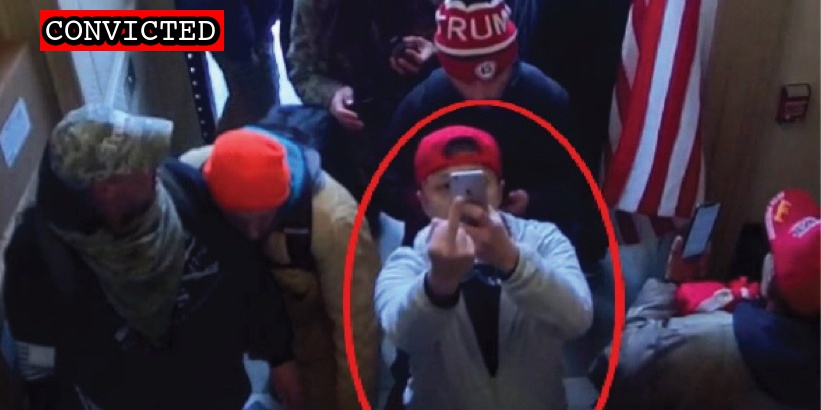
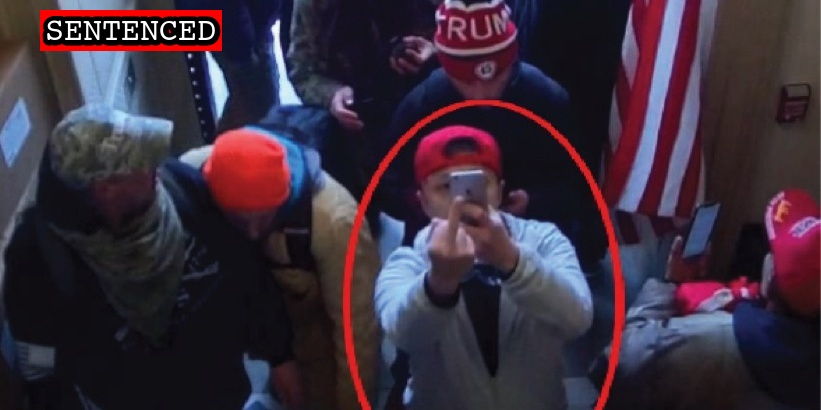
Latest

Changed region(s): [[0.0305, 0.0293, 0.2132, 0.1171], [0.2436, 0.0293, 0.2741, 0.1171]]

diff --git a/docs/_suspects/peter-schwartz.md b/docs/_suspects/peter-schwartz.md
@@ -4,13 +4,13 @@ lastName: Schwartz
 hashtag: PlaidBearSpray
 aka:
 residence: Kentucky
-status: Convicted
+status: Sentenced
 date: 2021-02-04
 charged: 2021-02-04
 indicted: 2021-03-03
 convicted: 2022-12-06
 acquitted:
-sentenced:
+sentenced: 2023-05-05
 dismissed:
 deceased:
 plea_hearing:
@@ -41,52 +41,56 @@ caseName: USA v. SCHWARTZ
 judge: Amit P. Mehta
 videos:
 charges:
-- code: 18 USC § 111(a)(1) and (b)
-  title: Assaulting, resisting, or impeding certain officers or employees (using a deadly or dangerous weapon)
-  url: https://www.law.cornell.edu/uscode/text/18/111
-  felony: true
-- code: 18 USC § 231(a)(3)
-  title: Obstruction of Law Enforcement During Civil Disorder
-  url: https://www.law.cornell.edu/uscode/text/18/231
-  felony: true
-- code: 18 USC § 111(a)(1) and (b)
-  title: Assaulting, resisting, or impeding certain officers or employees (using a deadly or dangerous weapon)
-  url: https://www.law.cornell.edu/uscode/text/18/111
-  felony: true
-- code: 18 USC § 111(a)(1) and (b)
-  title: Assaulting, resisting, or impeding certain officers or employees (using a deadly or dangerous weapon)
-  url: https://www.law.cornell.edu/uscode/text/18/111
-  felony: true
-- code: 18 USC § 111(a)(1) and (b),2
-  title: Assaulting, resisting, or impeding certain officers or employees (using a deadly or dangerous weapon) (Aiding and Abetting)
-  url: https://www.law.cornell.edu/uscode/text/18/111
-  felony: true
-- code: 18 USC § 1512(c)(2),2
-  title: Obstruction of an Official Proceeding (Aiding and Abetting)
-  url: https://www.law.cornell.edu/uscode/text/18/1512
-  felony: true
-- code: 18 USC § 1752(a)(1) and b(1)(A)
-  title: Entering a restricted building or grounds (w/a deadly weapon)
-  url: https://www.law.cornell.edu/uscode/text/18/1752
-  felony: true
-- code: 18 USC § 1752(a)(2) and b(1)(A)
-  title: Disorderly and Disruptive Conduct in a Restricted Building or Grounds (w/a deadly weapon)
-  url: https://www.law.cornell.edu/uscode/text/18/1752
-  felony: true
-- code: 18 USC § 1752(a)(4), (b)(1)(A)
-  title: Entering a restricted building or grounds with a dangerous or deadly weapon
-  url: https://www.law.cornell.edu/uscode/text/18/1752
-  felony: true
-- code: 40 USC § 5104(e)(2)(D)
-  title: Disorderly Conduct in a Capitol Building
-  url: https://www.law.cornell.edu/uscode/text/40/5104
-  felony: false
-- code: 40 USC § 5104(e)(2)(F)
-  title: Act of physical violence on Capitol grounds
-  url: https://www.law.cornell.edu/uscode/text/40/5104
-  felony: false
+  - code: 18 USC § 111(a)(1) and (b)
+    title: Assaulting, resisting, or impeding certain officers or employees (using a deadly or dangerous weapon)
+    url: https://www.law.cornell.edu/uscode/text/18/111
+    felony: true
+  - code: 18 USC § 231(a)(3)
+    title: Obstruction of Law Enforcement During Civil Disorder
+    url: https://www.law.cornell.edu/uscode/text/18/231
+    felony: true
+  - code: 18 USC § 111(a)(1) and (b)
+    title: Assaulting, resisting, or impeding certain officers or employees (using a deadly or dangerous weapon)
+    url: https://www.law.cornell.edu/uscode/text/18/111
+    felony: true
+  - code: 18 USC § 111(a)(1) and (b)
+    title: Assaulting, resisting, or impeding certain officers or employees (using a deadly or dangerous weapon)
+    url: https://www.law.cornell.edu/uscode/text/18/111
+    felony: true
+  - code: 18 USC § 111(a)(1) and (b),2
+    title: Assaulting, resisting, or impeding certain officers or employees (using a deadly or dangerous weapon) (Aiding and Abetting)
+    url: https://www.law.cornell.edu/uscode/text/18/111
+    felony: true
+  - code: 18 USC § 1512(c)(2),2
+    title: Obstruction of an Official Proceeding (Aiding and Abetting)
+    url: https://www.law.cornell.edu/uscode/text/18/1512
+    felony: true
+  - code: 18 USC § 1752(a)(1) and b(1)(A)
+    title: Entering a restricted building or grounds (w/a deadly weapon)
+    url: https://www.law.cornell.edu/uscode/text/18/1752
+    felony: true
+  - code: 18 USC § 1752(a)(2) and b(1)(A)
+    title: Disorderly and Disruptive Conduct in a Restricted Building or Grounds (w/a deadly weapon)
+    url: https://www.law.cornell.edu/uscode/text/18/1752
+    felony: true
+  - code: 18 USC § 1752(a)(4), (b)(1)(A)
+    title: Entering a restricted building or grounds with a dangerous or deadly weapon
+    url: https://www.law.cornell.edu/uscode/text/18/1752
+    felony: true
+  - code: 40 USC § 5104(e)(2)(D)
+    title: Disorderly Conduct in a Capitol Building
+    url: https://www.law.cornell.edu/uscode/text/40/5104
+    felony: false
+  - code: 40 USC § 5104(e)(2)(F)
+    title: Act of physical violence on Capitol grounds
+    url: https://www.law.cornell.edu/uscode/text/40/5104
+    felony: false
 sentence:
+  - 170 months incarceration
+  - 3 years probation
+  - $0 restitution
 ---
+
 - [News Report](https://www.post-gazette.com/news/crime-courts/2021/02/04/peter-schwartz-us-capitol-riots-arrest-uniontown-kentucky/stories/202102040169)
 - [Statement of Facts](https://www.justice.gov/usao-dc/case-multi-defendant/file/1364696/download)
 - [Indictment](https://www.justice.gov/usao-dc/case-multi-defendant/file/1473371/download)

diff --git a/docs/_suspects/daniel-phipps.md b/docs/_suspects/daniel-phipps.md
@@ -41,33 +41,32 @@ caseName: USA v. PHIPPS
 judge: Carl J. Nichols
 videos:
 charges:
-  - code: 18 USC § 111(a)(1)
-    title: Assaulting, resisting, or impeding certain officers or employees
-    url: https://www.law.cornell.edu/uscode/text/18/111
-    felony: true
-  - code: 18 USC § 231(a)(3)
-    title: Obstruction of Law Enforcement During Civil Disorder
-    url: https://www.law.cornell.edu/uscode/text/18/231
-    felony: true
-  - code: 18 USC § 1752(a)(1)
-    title: Entering a restricted building or grounds
-    url: https://www.law.cornell.edu/uscode/text/18/1752
-    felony: false
-  - code: 18 USC § 1752(a)(2)
-    title: Disorderly and disruptive conduct in a restricted building or grounds
-    url: https://www.law.cornell.edu/uscode/text/18/1752
-    felony: false
-  - code: 40 USC § 5104(e)(2)(D)
-    title: Disorderly Conduct in a Capitol Building
-    url: https://www.law.cornell.edu/uscode/text/40/5104
-    felony: false
-  - code: 40 USC § 5104(e)(2)(G)
-    title: Parading, demonstrating or picketing in a Capitol building
-    url: https://www.law.cornell.edu/uscode/text/40/5104
-    felony: false
+- code: 18 USC § 111(a)(1)
+  title: Assaulting, resisting, or impeding certain officers or employees
+  url: https://www.law.cornell.edu/uscode/text/18/111
+  felony: true
+- code: 18 USC § 231(a)(3)
+  title: Obstruction of Law Enforcement During Civil Disorder
+  url: https://www.law.cornell.edu/uscode/text/18/231
+  felony: true
+- code: 18 USC § 1752(a)(1)
+  title: Entering a restricted building or grounds
+  url: https://www.law.cornell.edu/uscode/text/18/1752
+  felony: false
+- code: 18 USC § 1752(a)(2)
+  title: Disorderly and disruptive conduct in a restricted building or grounds
+  url: https://www.law.cornell.edu/uscode/text/18/1752
+  felony: false
+- code: 40 USC § 5104(e)(2)(D)
+  title: Disorderly Conduct in a Capitol Building
+  url: https://www.law.cornell.edu/uscode/text/40/5104
+  felony: false
+- code: 40 USC § 5104(e)(2)(G)
+  title: Parading, demonstrating or picketing in a Capitol building
+  url: https://www.law.cornell.edu/uscode/text/40/5104
+  felony: false
 sentence:
 ---
-
 - [News Report](https://www.dallasnews.com/news/crime/2021/01/27/garland-man-who-posted-photo-of-himself-inside-capitol-building-is-arrested/)
 - [Complaint](https://www.justice.gov/opa/page/file/1360726/download)
 - [Statement of Facts](https://www.justice.gov/opa/page/file/1360726/download)

diff --git a/docs/_suspects/mick-chan.md b/docs/_suspects/mick-chan.md
@@ -4,13 +4,13 @@ lastName: Chan
 hashtag: MickChan
 aka:
 residence: New Jersey
-status: Convicted
+status: Sentenced
 date: 2021-09-07
 charged: 2021-09-07
 indicted:
 convicted: 2023-01-24
 acquitted:
-sentenced:
+sentenced: 2023-05-05
 dismissed:
 deceased:
 plea_hearing:
@@ -41,20 +41,24 @@ caseName: USA v. CHAN
 judge: Trevor N. McFadden
 videos:
 charges:
-- code: 18 USC § 1752(a)(1)
-  title: Entering a restricted building or grounds
-  url: https://www.law.cornell.edu/uscode/text/18/1752
-  felony: false
-- code: 18 USC § 1752(a)(2)
-  title: Disorderly and disruptive conduct in a restricted building or grounds
-  url: https://www.law.cornell.edu/uscode/text/18/1752
-  felony: false
-- code: 40 USC § 5104(e)(2)(G)
-  title: Parading, demonstrating or picketing in a Capitol building
-  url: https://www.law.cornell.edu/uscode/text/40/5104
-  felony: false
+  - code: 18 USC § 1752(a)(1)
+    title: Entering a restricted building or grounds
+    url: https://www.law.cornell.edu/uscode/text/18/1752
+    felony: false
+  - code: 18 USC § 1752(a)(2)
+    title: Disorderly and disruptive conduct in a restricted building or grounds
+    url: https://www.law.cornell.edu/uscode/text/18/1752
+    felony: false
+  - code: 40 USC § 5104(e)(2)(G)
+    title: Parading, demonstrating or picketing in a Capitol building
+    url: https://www.law.cornell.edu/uscode/text/40/5104
+    felony: false
 sentence:
+  - 90 days incarceration
+  - 1 year probation
+  - $500 restitution
 ---
+
 - [News Report](https://www.huffpost.com/entry/fbi-capitol-attack-mick-chan_n_614b5077e4b077b735ee30f3)
 - [Complaint](https://extremism.gwu.edu/sites/g/files/zaxdzs2191/f/Mick%20Chan%20Criminal%20Complaint.pdf)
 - [Statement of Facts](https://www.justice.gov/usao-dc/case-multi-defendant/file/1457606/download)

diff --git a/docs/_suspects/isaiah-farnsworth.md b/docs/_suspects/isaiah-farnsworth.md
@@ -41,12 +41,11 @@ caseName: USA v. FARNSWORTH
 judge: Amit P. Mehta
 videos:
 charges:
-  - code: 18 USC § 1752(a)(1)
-    title: Entering a restricted building or grounds
-    url: https://www.law.cornell.edu/uscode/text/18/1752
-    felony: false
+- code: 18 USC § 1752(a)(1)
+  title: Entering a restricted building or grounds
+  url: https://www.law.cornell.edu/uscode/text/18/1752
+  felony: false
 sentence:
 ---
-
 - [Statement of Facts](https://storage.courtlistener.com/recap/gov.uscourts.dcd.249829/gov.uscourts.dcd.249829.1.1.pdf)
 - [Complaint](https://storage.courtlistener.com/recap/gov.uscourts.dcd.250668/gov.uscourts.dcd.250668.1.0.pdf)

diff --git a/docs/_suspects/edward-lang.md b/docs/_suspects/edward-lang.md
@@ -14,11 +14,11 @@ sentenced:
 dismissed:
 deceased:
 plea_hearing:
-trial_date: 2023-05-30
+trial_date: 2023-10-10
 trial_type: Jury Trial
-jury_selection: 2023-05-30
+jury_selection: 2023-10-10
 sentencing:
-status_conference: 2023-05-05
+status_conference:
 age: 25
 occupation:
 affiliations:

diff --git a/docs/_suspects/paul-modrell.md b/docs/_suspects/paul-modrell.md
@@ -13,12 +13,12 @@ acquitted:
 sentenced:
 dismissed:
 deceased:
-plea_hearing:
+plea_hearing: 2023-05-19
 trial_date:
 trial_type:
 jury_selection:
 sentencing:
-status_conference: 2023-05-05
+status_conference:
 age:
 occupation:
 affiliations:

diff --git a/docs/_suspects/mark-ibrahim.md b/docs/_suspects/mark-ibrahim.md
@@ -18,7 +18,7 @@ trial_date:
 trial_type:
 jury_selection:
 sentencing:
-status_conference: 2023-05-05
+status_conference: 2023-08-01
 age:
 occupation: Special Agent, Drug Enforcement Administration
 affiliations:

diff --git a/docs/_suspects/isaac-sturgeon.md b/docs/_suspects/isaac-sturgeon.md
@@ -18,7 +18,7 @@ trial_date: 2023-05-15
 trial_type: Jury Trial
 jury_selection:
 sentencing:
-status_conference:
+status_conference: 2023-05-11
 age: 32
 occupation: Owner, Lawn Care Business
 affiliations:

diff --git a/docs/_suspects/joseph-howe.md b/docs/_suspects/joseph-howe.md
@@ -18,7 +18,7 @@ trial_date: 2023-05-10
 trial_type: Jury Trial
 jury_selection: 2023-05-10
 sentencing:
-status_conference: 2023-05-05
+status_conference: 2023-07-20
 age: 40
 occupation:
 affiliations:

diff --git a/docs/_suspects/nathaniel-tuck.md b/docs/_suspects/nathaniel-tuck.md
@@ -18,7 +18,7 @@ trial_date:
 trial_type:
 jury_selection:
 sentencing:
-status_conference: 2023-05-05
+status_conference: 2023-07-11
 age: 29
 occupation: Former Police Officer
 affiliations: Proud Boys

diff --git a/docs/_suspects/michael-sparks.md b/docs/_suspects/michael-sparks.md
@@ -18,7 +18,7 @@ trial_date: 2023-05-10
 trial_type: Jury Trial
 jury_selection: 2023-05-10
 sentencing:
-status_conference: 2023-05-05
+status_conference: 2023-07-20
 age:
 occupation:
 affiliations:

diff --git a/docs/_suspects/kevin-tuck.md b/docs/_suspects/kevin-tuck.md
@@ -18,7 +18,7 @@ trial_date:
 trial_type:
 jury_selection:
 sentencing:
-status_conference: 2023-05-05
+status_conference: 2023-07-11
 age: 51
 occupation: Police Officer
 affiliations: Proud Boys
